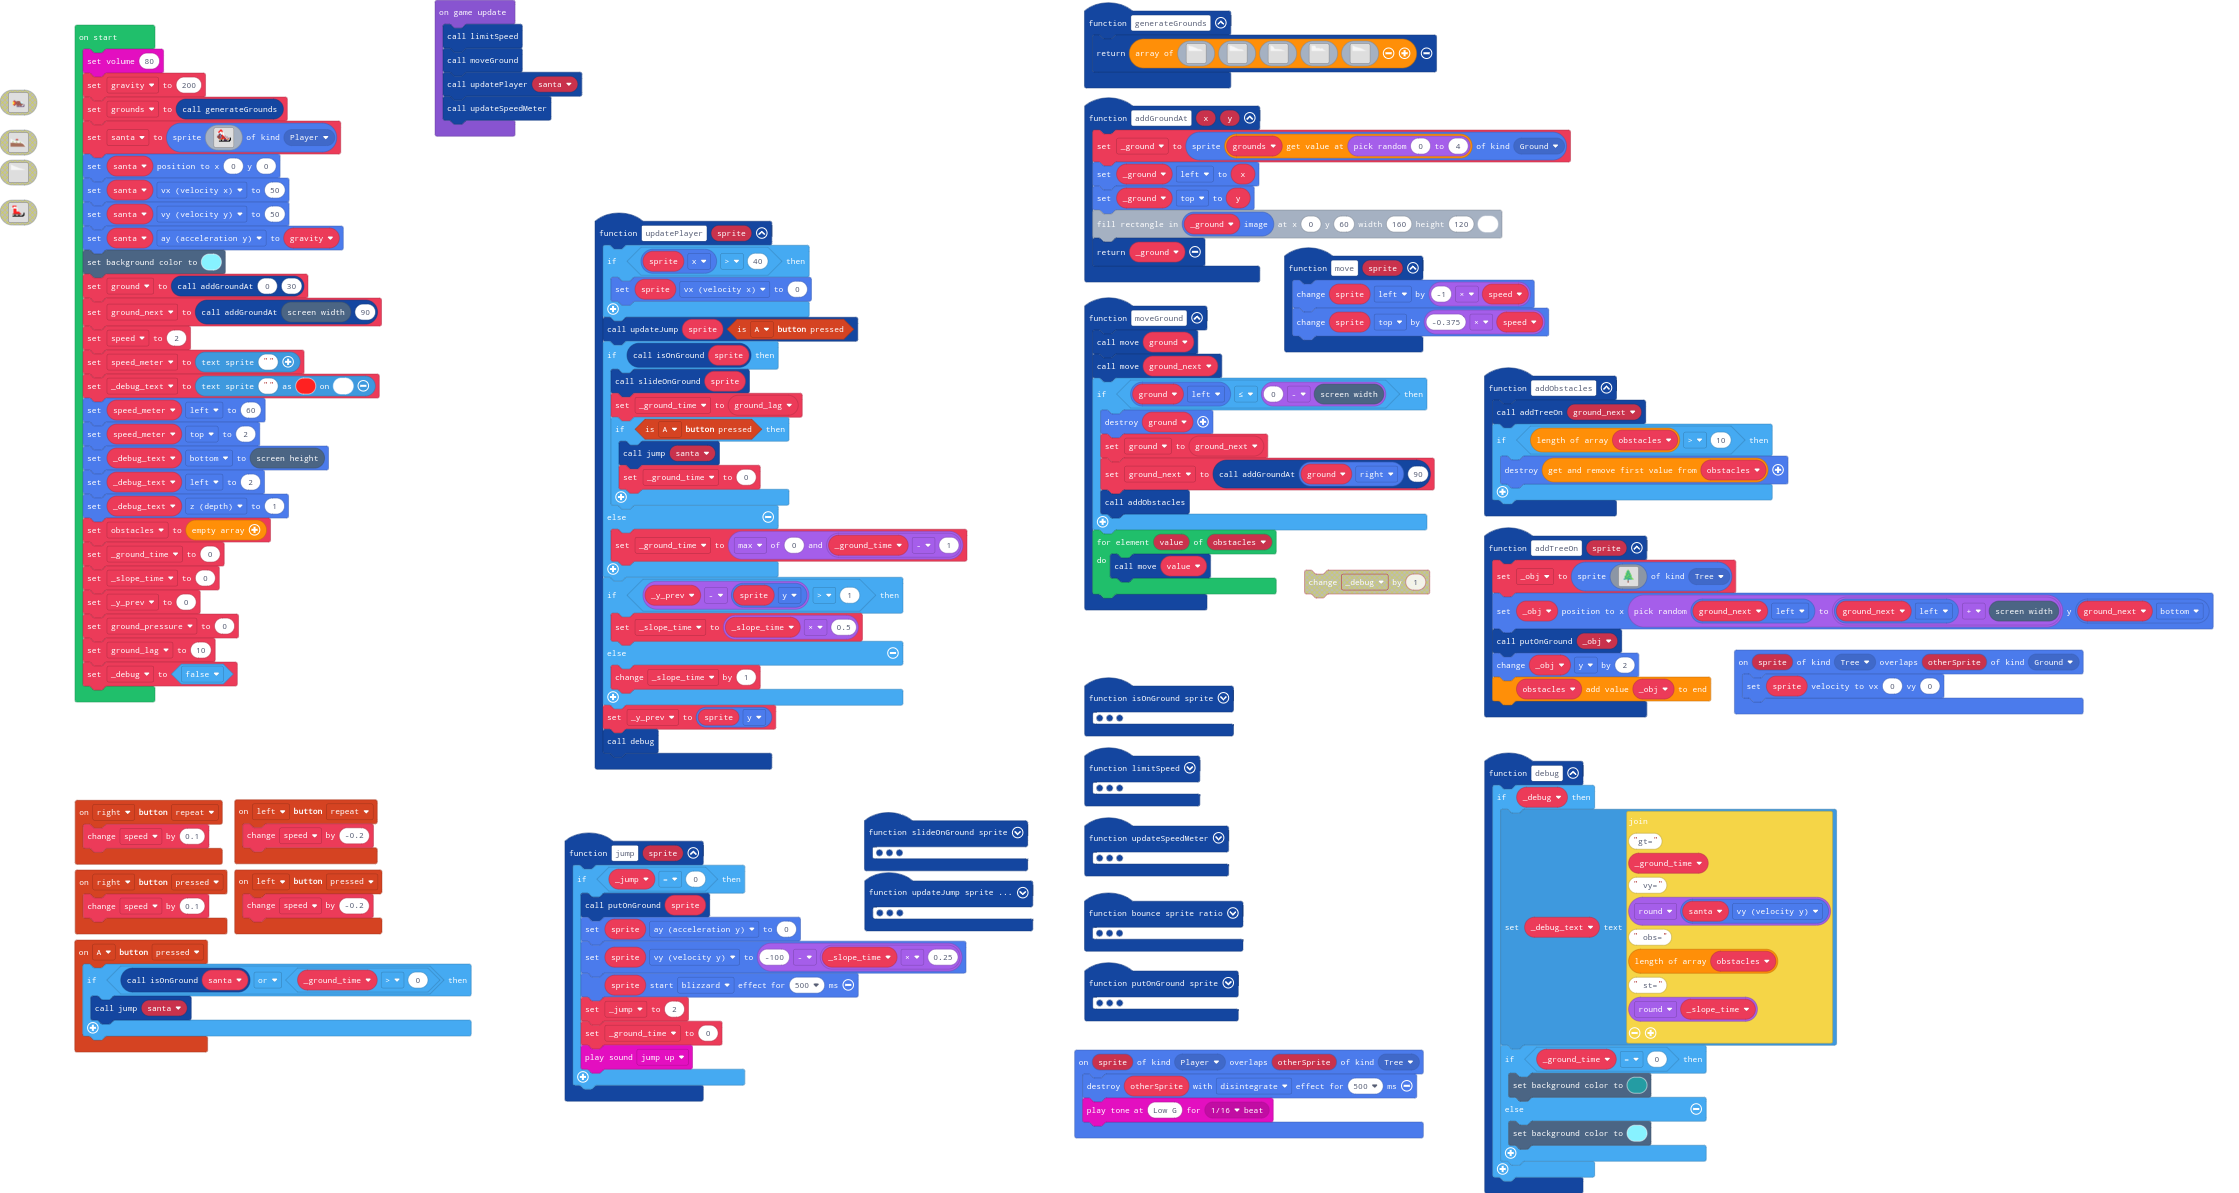
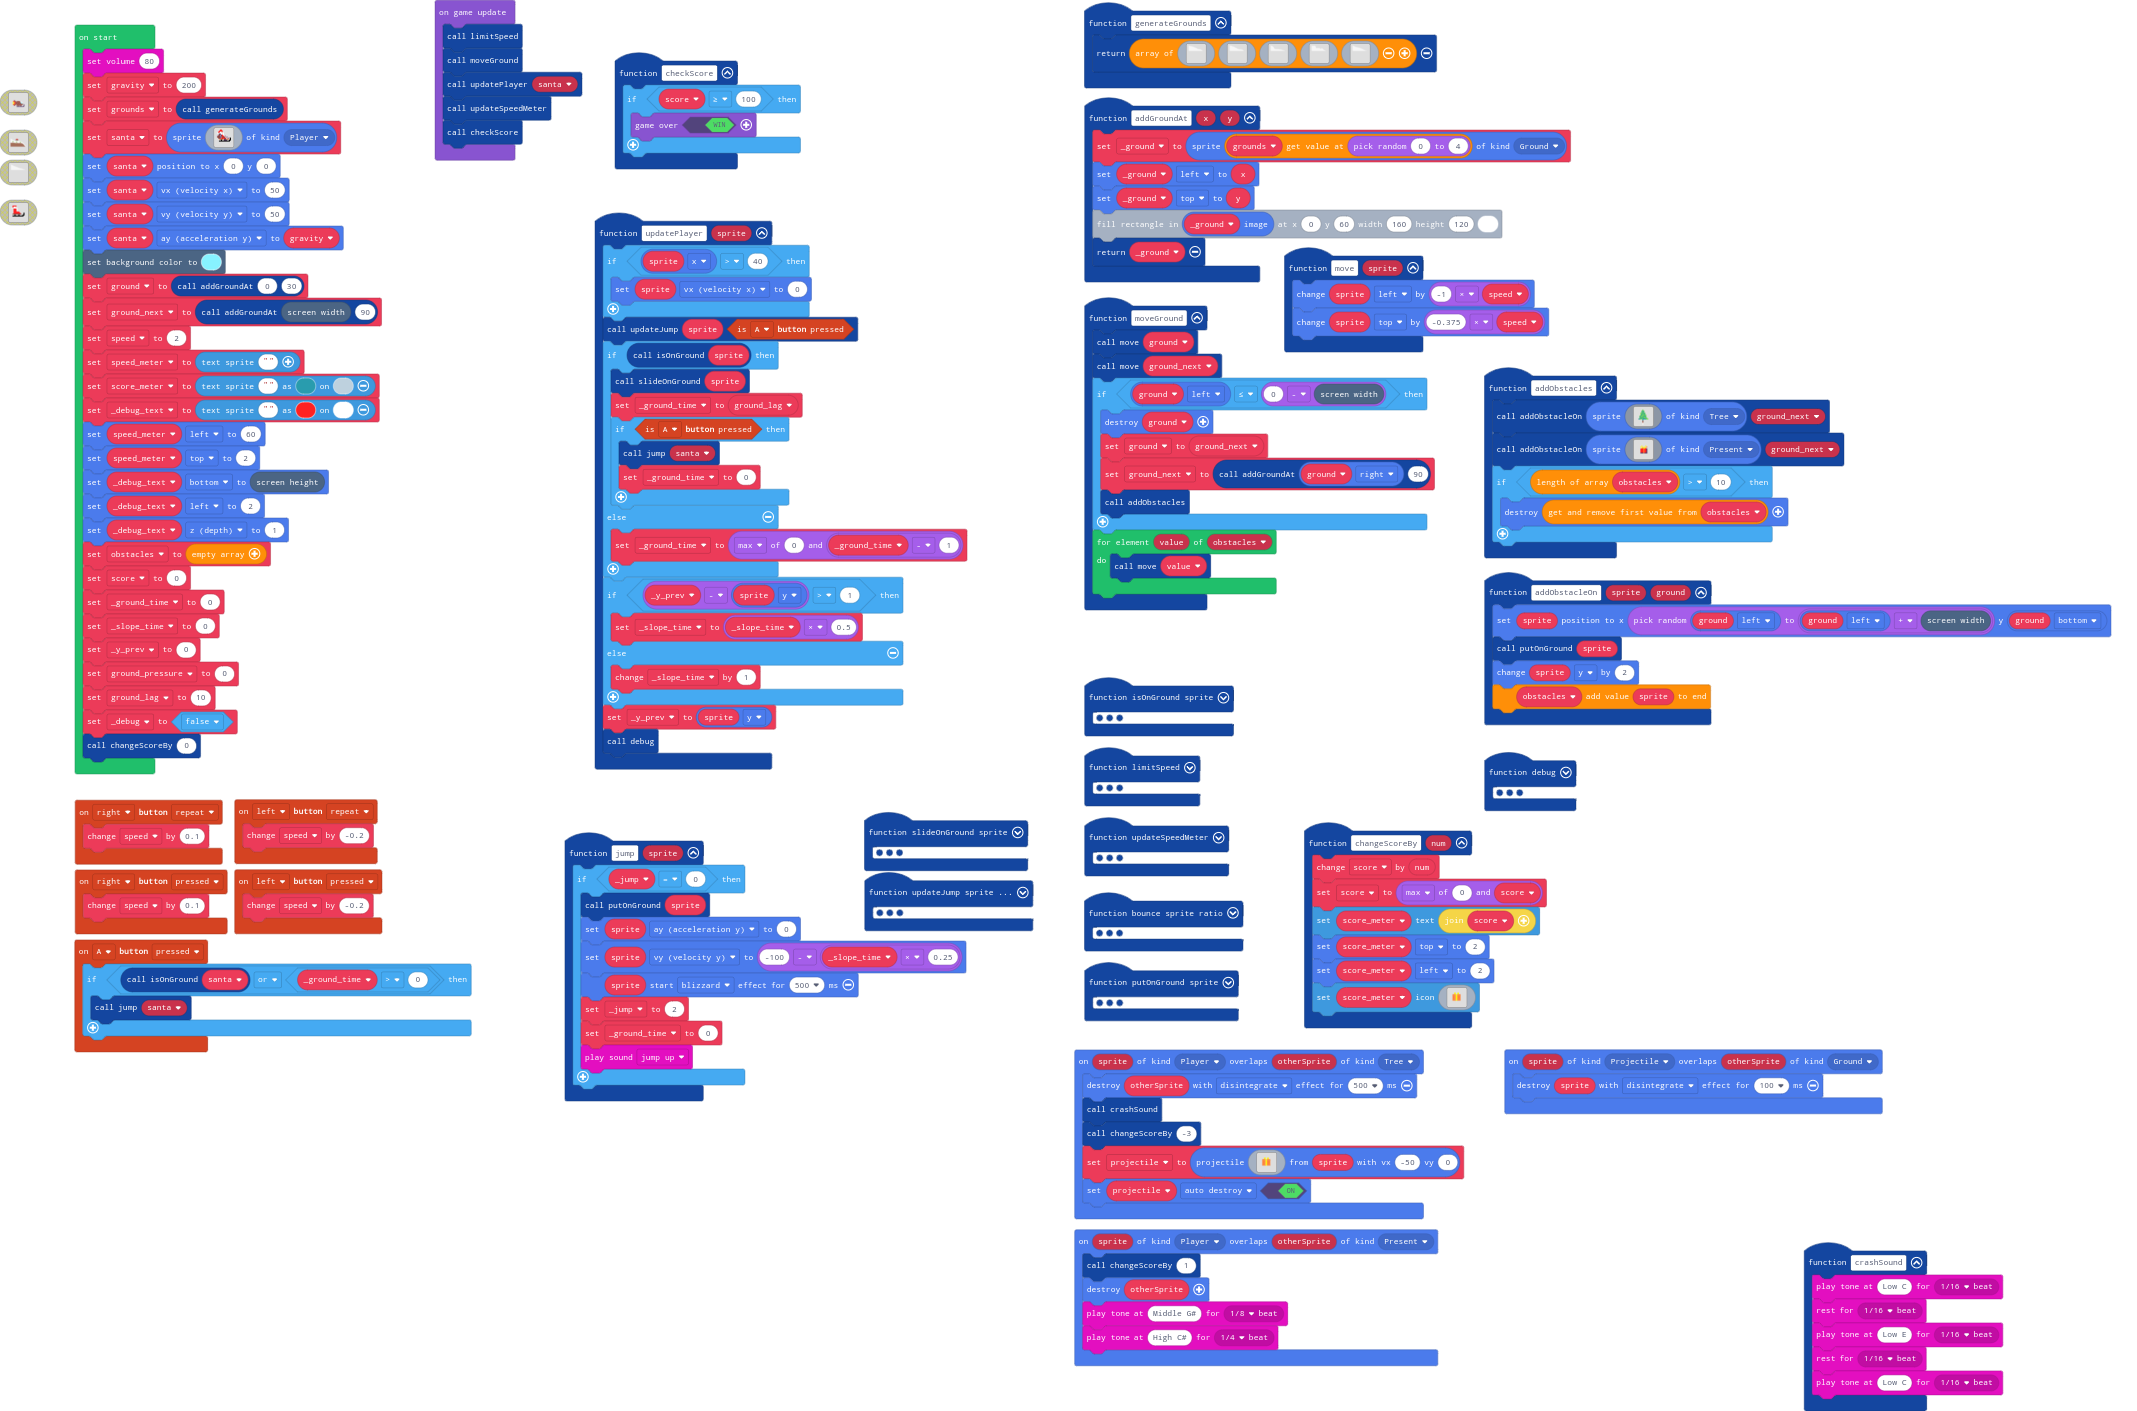
presents and more sounds

diff --git a/main.ts b/main.ts
@@ -1,6 +1,12 @@
 namespace SpriteKind {
     export const Ground = SpriteKind.create()
     export const Tree = SpriteKind.create()
+    export const Present = SpriteKind.create()
+}
+function checkScore () {
+    if (score >= 100) {
+        game.over(true)
+    }
 }
 function updateJump (sprite: Sprite, jumping: boolean) {
     if (_jump > 0 && jumping) {
@@ -63,30 +69,6 @@ function limitSpeed () {
 controller.right.onEvent(ControllerButtonEvent.Repeated, function () {
     speed += 0.1
 })
-function addTreeOn (sprite: Sprite) {
-    _obj = sprites.create(img`
-        . . . . . . . . . . . . . . . . 
-        . . . . . . . 7 . . . . . . . . 
-        . . . . . . 7 6 7 . . . . . . . 
-        . . . . . . 6 7 6 . . . . . . . 
-        . . . . . 7 7 6 7 7 . . . . . . 
-        . . . . . 7 6 7 6 6 . . . . . . 
-        . . . . . 7 6 7 7 7 7 . . . . . 
-        . . . . 7 6 7 7 6 6 7 . . . . . 
-        . . . . 6 7 7 6 7 7 6 . . . . . 
-        . . . . 7 6 6 7 6 7 7 7 . . . . 
-        . . . 6 6 7 7 6 6 6 6 7 7 . . . 
-        . . . . . . . 6 . . . . . . . . 
-        . . . . . . . e . . . . . . . . 
-        . . . . . . . e . . . . . . . . 
-        . . . . . . . d . . . . . . . . 
-        . . . . . . . 1 . . . . . . . . 
-        `, SpriteKind.Tree)
-    _obj.setPosition(randint(ground_next.left, ground_next.left + scene.screenWidth()), ground_next.bottom)
-    putOnGround(_obj)
-    _obj.y += 2
-    obstacles.push(_obj)
-}
 controller.left.onEvent(ControllerButtonEvent.Pressed, function () {
     speed += -0.2
 })
@@ -998,15 +980,31 @@ function generateGrounds () {
         ................................................................................................................................................................
         `]
 }
+function changeScoreBy (num: number) {
+    score += num
+    score = Math.max(0, score)
+    score_meter.setText("" + score)
+    score_meter.top = 2
+    score_meter.left = 2
+    score_meter.setIcon(img`
+        . . . . . . . 
+        . . . . . . . 
+        . . 5 . 5 . . 
+        . 4 4 5 4 4 . 
+        . 4 4 5 4 4 . 
+        . 4 4 5 4 4 . 
+        . 4 4 5 4 4 . 
+        . . . . . . . 
+        . . . . . . . 
+        . . . . . . . 
+        `)
+}
 function bounce (sprite: Sprite, ratio: number) {
     sprite.vy = sprite.vy * ratio
 }
 function isOnGround (sprite: Sprite) {
     return sprite.overlapsWith(ground) || sprite.overlapsWith(ground_next)
 }
-sprites.onOverlap(SpriteKind.Tree, SpriteKind.Ground, function (sprite, otherSprite) {
-    sprite.setVelocity(0, 0)
-})
 controller.right.onEvent(ControllerButtonEvent.Pressed, function () {
     speed += 0.1
 })
@@ -1027,6 +1025,12 @@ function slideOnGround (sprite: Sprite) {
     putOnGround(sprite)
     sprite.vy = ground_pressure
 }
+sprites.onOverlap(SpriteKind.Player, SpriteKind.Present, function (sprite, otherSprite) {
+    changeScoreBy(1)
+    otherSprite.destroy()
+    music.playTone(415, music.beat(BeatFraction.Eighth))
+    music.playTone(554, music.beat(BeatFraction.Quarter))
+})
 function moveGround () {
     move(ground)
     move(ground_next)
@@ -1051,21 +1055,86 @@ function jump (sprite: Sprite) {
         music.jumpUp.play()
     }
 }
+sprites.onOverlap(SpriteKind.Projectile, SpriteKind.Ground, function (sprite, otherSprite) {
+    sprite.destroy(effects.disintegrate, 100)
+})
 function putOnGround (sprite: Sprite) {
     while (isOnGround(sprite)) {
         sprite.y += -1
     }
 }
+function crashSound () {
+    music.playTone(131, music.beat(BeatFraction.Sixteenth))
+    music.rest(music.beat(BeatFraction.Sixteenth))
+    music.playTone(165, music.beat(BeatFraction.Sixteenth))
+    music.rest(music.beat(BeatFraction.Sixteenth))
+    music.playTone(131, music.beat(BeatFraction.Sixteenth))
+}
 function move (sprite: Sprite) {
     sprite.left += -1 * speed
     sprite.top += -0.375 * speed
 }
+function addObstacleOn (sprite: Sprite, ground: Sprite) {
+    sprite.setPosition(randint(ground.left, ground.left + scene.screenWidth()), ground.bottom)
+    putOnGround(sprite)
+    sprite.y += 2
+    obstacles.push(sprite)
+}
 sprites.onOverlap(SpriteKind.Player, SpriteKind.Tree, function (sprite, otherSprite) {
     otherSprite.destroy(effects.disintegrate, 500)
-    music.playTone(196, music.beat(BeatFraction.Sixteenth))
+    crashSound()
+    changeScoreBy(-3)
+    projectile = sprites.createProjectileFromSprite(img`
+        . . . . . . . 
+        . . . . . . . 
+        . . 5 . 5 . . 
+        . 4 4 5 4 4 . 
+        . 4 4 5 4 4 . 
+        . 4 4 5 4 4 . 
+        . 4 4 5 4 4 . 
+        . . . . . . . 
+        . . . . . . . 
+        . . . . . . . 
+        `, sprite, -50, 0)
+    projectile.setFlag(SpriteFlag.AutoDestroy, true)
 })
 function addObstacles () {
-    addTreeOn(ground_next)
+    addObstacleOn(sprites.create(img`
+        . . . . . . . . . . . . . . . . 
+        . . . . . . . 7 . . . . . . . . 
+        . . . . . . 7 6 7 . . . . . . . 
+        . . . . . . 6 7 6 . . . . . . . 
+        . . . . . 7 7 6 7 7 . . . . . . 
+        . . . . . 7 6 7 6 6 . . . . . . 
+        . . . . . 7 6 7 7 7 7 . . . . . 
+        . . . . 7 6 7 7 6 6 7 . . . . . 
+        . . . . 6 7 7 6 7 7 6 . . . . . 
+        . . . . 7 6 6 7 6 7 7 7 . . . . 
+        . . . 6 6 7 7 6 6 6 6 7 7 . . . 
+        . . . . . . . 6 . . . . . . . . 
+        . . . . . . . e . . . . . . . . 
+        . . . . . . . e . . . . . . . . 
+        . . . . . . . d . . . . . . . . 
+        . . . . . . . 1 . . . . . . . . 
+        `, SpriteKind.Tree), ground_next)
+    addObstacleOn(sprites.create(img`
+        . . . . . . . . . . . . . . . . 
+        . . . . . . . . . . . . . . . . 
+        . . . . . . . . . . . . . . . . 
+        . . . . . . . . . . . . . . . . 
+        . . . . . . 5 . . . 5 . . . . . 
+        . . . . . 5 . 5 . 5 . 4 . . . . 
+        . . . . . . 5 4 5 5 4 . . . . . 
+        . . . . . 2 2 2 4 2 2 c . . . . 
+        . . . . . 2 2 2 4 2 2 c . . . . 
+        . . . . . 2 2 2 4 2 2 c . . . . 
+        . . . . . 2 2 2 4 2 2 c . . . . 
+        . . . . . c c c 4 c c c . . . . 
+        . . . . . . . . . . . . . . . . 
+        . . . . . . . . . . . . . . . . 
+        . . . . . . . . . . . . . . . . 
+        . . . . . . . . . . . . . . . . 
+        `, SpriteKind.Present), ground_next)
     if (obstacles.length > 10) {
         obstacles.shift().destroy()
     }
@@ -1073,7 +1142,7 @@ function addObstacles () {
 controller.left.onEvent(ControllerButtonEvent.Repeated, function () {
     speed += -0.2
 })
-let _obj: Sprite = null
+let projectile: Sprite = null
 let _ground: Sprite = null
 let _jump = 0
 let _debug = false
@@ -1082,8 +1151,10 @@ let ground_pressure = 0
 let _y_prev = 0
 let _slope_time = 0
 let _ground_time = 0
+let score = 0
 let obstacles: Sprite[] = []
 let _debug_text: TextSprite = null
+let score_meter: TextSprite = null
 let speed_meter: TextSprite = null
 let speed = 0
 let ground_next: Sprite = null
@@ -1121,6 +1192,7 @@ ground = addGroundAt(0, 30)
 ground_next = addGroundAt(scene.screenWidth(), 90)
 speed = 2
 speed_meter = textsprite.create("")
+score_meter = textsprite.create("", 0, 6)
 _debug_text = textsprite.create("", 1, 2)
 speed_meter.left = 60
 speed_meter.top = 2
@@ -1128,15 +1200,18 @@ _debug_text.bottom = scene.screenHeight()
 _debug_text.left = 2
 _debug_text.z = 1
 obstacles = []
+score = 0
 _ground_time = 0
 _slope_time = 0
 _y_prev = 0
 ground_pressure = 0
 ground_lag = 10
 _debug = false
+changeScoreBy(0)
 game.onUpdate(function () {
     limitSpeed()
     moveGround()
     updatePlayer(santa)
     updateSpeedMeter()
+    checkScore()
 })
